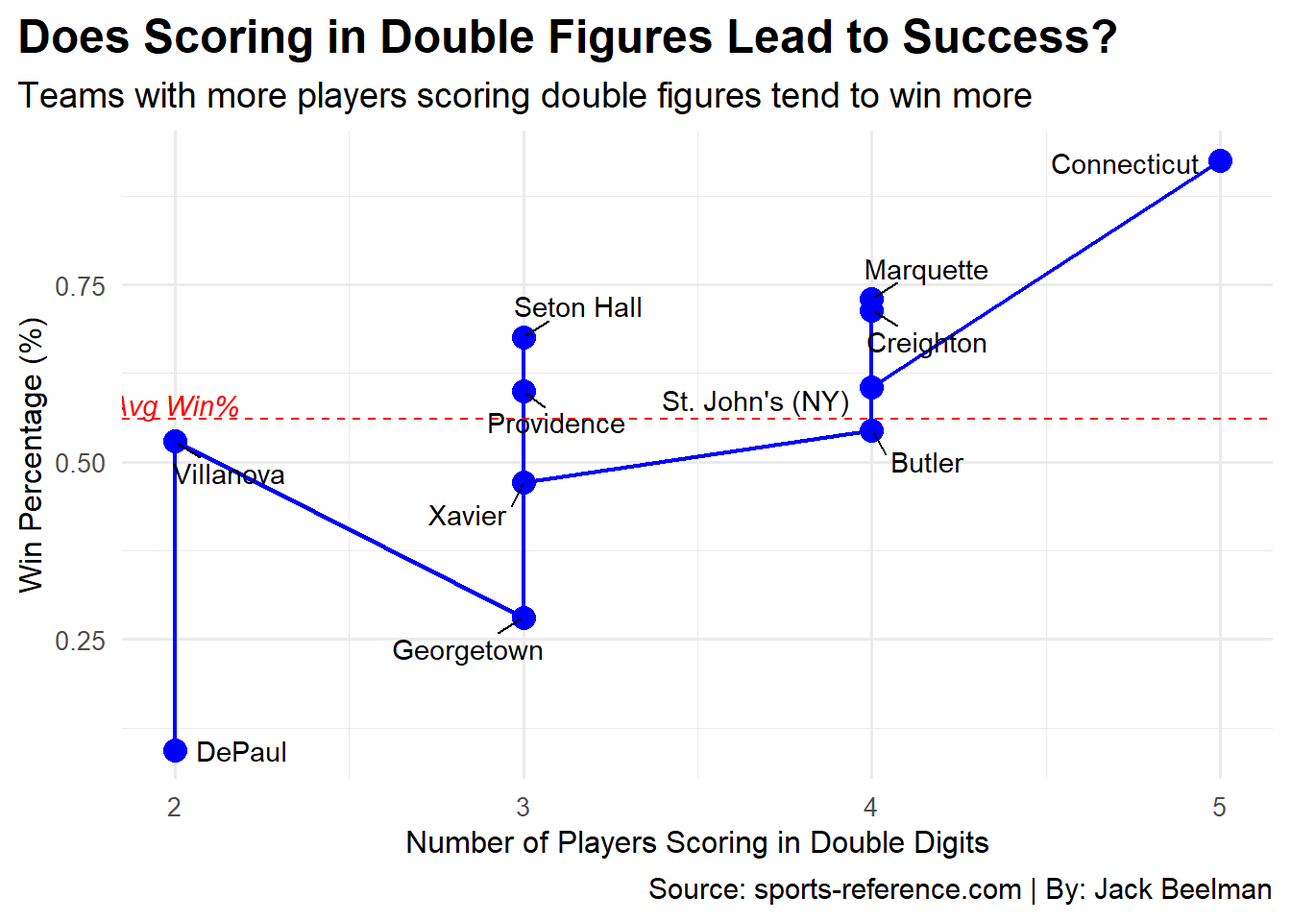
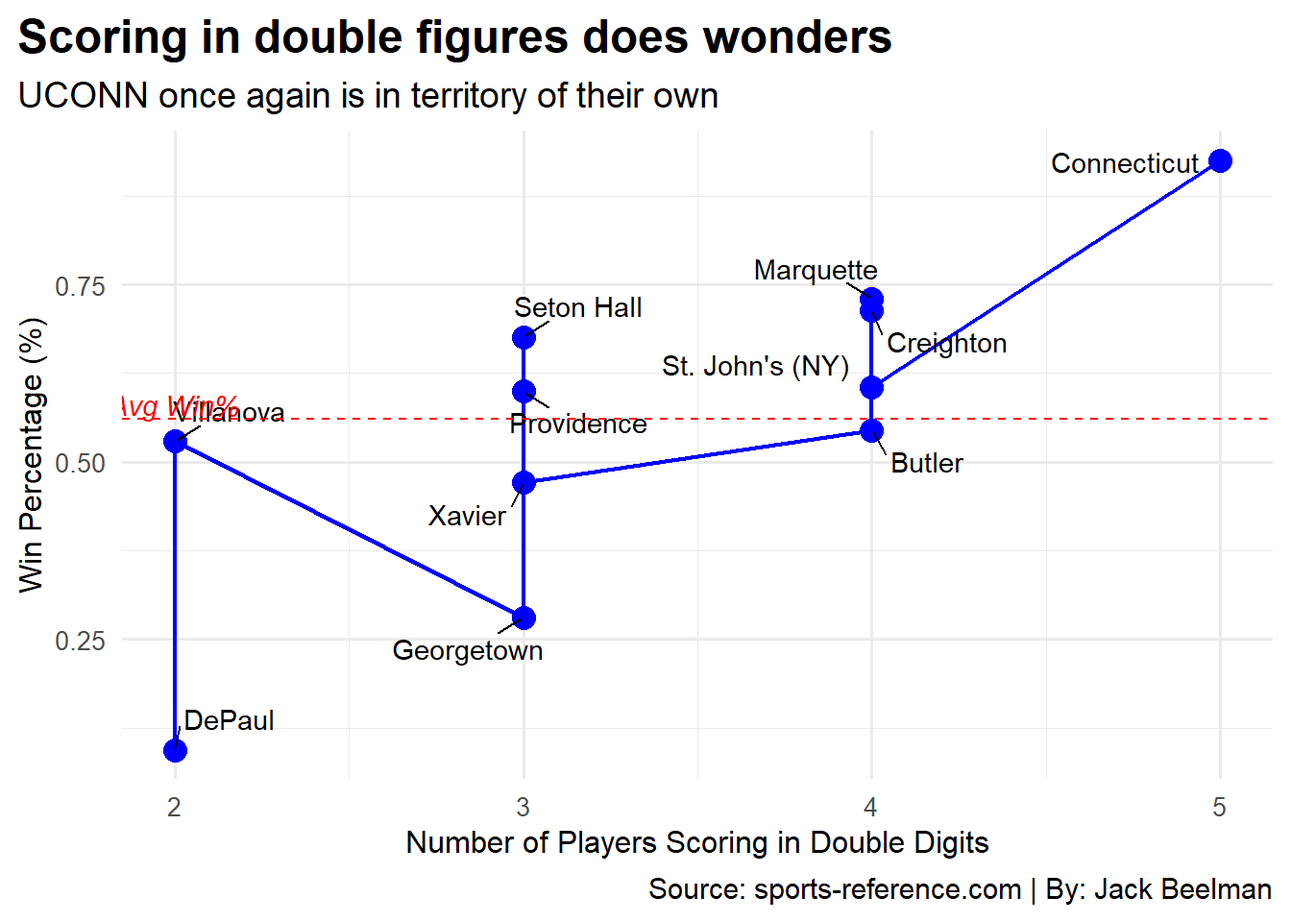
Update

diff --git a/posts/Big-East-Scoring/index.html b/posts/Big-East-Scoring/index.html
@@ -191,47 +191,33 @@ pre > code.sourceCode > span > a:first-child::before { text-decoration: underlin
 
 
 <p>The Big East is widely regarded as one of the most competitive conferences in all of college basketball. With powerhouses like UCONN and Villanova winning the NCAA tournament in 4 of the last 8 years, the conference’s dominance is clear. A common question within the Big East revolves around the impact of scoring balance: do teams with more balanced scoring tend to perform better than those relying on one or two star players?</p>
-<div class="cell">
-<div class="cell-output cell-output-stderr">
-<pre><code>── Attaching core tidyverse packages ──────────────────────── tidyverse 2.0.0 ──
-✔ dplyr     1.1.4     ✔ readr     2.1.5
-✔ forcats   1.0.0     ✔ stringr   1.5.1
-✔ ggplot2   3.5.1     ✔ tibble    3.2.1
-✔ lubridate 1.9.3     ✔ tidyr     1.3.1
-✔ purrr     1.0.2     
-── Conflicts ────────────────────────────────────────── tidyverse_conflicts() ──
-✖ dplyr::filter() masks stats::filter()
-✖ dplyr::lag()    masks stats::lag()
-ℹ Use the conflicted package (&lt;http://conflicted.r-lib.org/&gt;) to force all conflicts to become errors</code></pre>
-</div>
-</div>
 <p>The Big East had multiple players go both in the first and second rounds of the 2024 NBA Draft, but let us see how those players contributed to their team while at the collegiate level. The graph below shows how many players averaged double digit points and for which team they played.</p>
 <div class="cell">
 <details class="code-fold">
 <summary>Code</summary>
-<div class="sourceCode cell-code" id="cb2"><pre class="sourceCode r code-with-copy"><code class="sourceCode r"><span id="cb2-1"><a href="#cb2-1" aria-hidden="true" tabindex="-1"></a><span class="fu">ggplot</span>() <span class="sc">+</span></span>
-<span id="cb2-2"><a href="#cb2-2" aria-hidden="true" tabindex="-1"></a>  <span class="fu">geom_bar</span>(</span>
-<span id="cb2-3"><a href="#cb2-3" aria-hidden="true" tabindex="-1"></a>    <span class="at">data =</span> team_double_digit_count,</span>
-<span id="cb2-4"><a href="#cb2-4" aria-hidden="true" tabindex="-1"></a>    <span class="fu">aes</span>(<span class="at">x =</span> Team, <span class="at">y =</span> Players_in_double_digits),</span>
-<span id="cb2-5"><a href="#cb2-5" aria-hidden="true" tabindex="-1"></a>    <span class="at">stat =</span> <span class="st">"identity"</span>,</span>
-<span id="cb2-6"><a href="#cb2-6" aria-hidden="true" tabindex="-1"></a>    <span class="at">fill =</span> <span class="st">"lightblue"</span></span>
-<span id="cb2-7"><a href="#cb2-7" aria-hidden="true" tabindex="-1"></a>  ) <span class="sc">+</span></span>
-<span id="cb2-8"><a href="#cb2-8" aria-hidden="true" tabindex="-1"></a>  <span class="fu">labs</span>(</span>
-<span id="cb2-9"><a href="#cb2-9" aria-hidden="true" tabindex="-1"></a>    <span class="at">title =</span> <span class="st">"UCONN Dominates Once Again"</span>,</span>
-<span id="cb2-10"><a href="#cb2-10" aria-hidden="true" tabindex="-1"></a>    <span class="at">subtitle =</span> <span class="st">"Dan Hurley's squad is filled with stars"</span>,</span>
-<span id="cb2-11"><a href="#cb2-11" aria-hidden="true" tabindex="-1"></a>    <span class="at">x =</span> <span class="st">"School"</span>,</span>
-<span id="cb2-12"><a href="#cb2-12" aria-hidden="true" tabindex="-1"></a>    <span class="at">y =</span> <span class="st">"Players Averaging Double Digits"</span>,</span>
-<span id="cb2-13"><a href="#cb2-13" aria-hidden="true" tabindex="-1"></a>    <span class="at">caption =</span> <span class="st">"Source: sports-reference.com | By: Jack Beelman"</span></span>
-<span id="cb2-14"><a href="#cb2-14" aria-hidden="true" tabindex="-1"></a>  ) <span class="sc">+</span></span>
-<span id="cb2-15"><a href="#cb2-15" aria-hidden="true" tabindex="-1"></a>  <span class="fu">theme_minimal</span>(<span class="at">base_size =</span> <span class="dv">10</span>) <span class="sc">+</span></span>
-<span id="cb2-16"><a href="#cb2-16" aria-hidden="true" tabindex="-1"></a>  <span class="fu">theme</span>(</span>
-<span id="cb2-17"><a href="#cb2-17" aria-hidden="true" tabindex="-1"></a>    <span class="at">plot.title =</span> <span class="fu">element_text</span>(<span class="at">size =</span> <span class="dv">14</span>, <span class="at">face =</span> <span class="st">"bold"</span>, <span class="at">hjust =</span> <span class="dv">0</span>),</span>
-<span id="cb2-18"><a href="#cb2-18" aria-hidden="true" tabindex="-1"></a>    <span class="at">plot.subtitle =</span> <span class="fu">element_text</span>(<span class="at">size =</span> <span class="dv">10</span>),</span>
-<span id="cb2-19"><a href="#cb2-19" aria-hidden="true" tabindex="-1"></a>    <span class="at">axis.text.x =</span> <span class="fu">element_text</span>(<span class="at">angle =</span> <span class="dv">45</span>, <span class="at">hjust =</span> <span class="dv">1</span>),</span>
-<span id="cb2-20"><a href="#cb2-20" aria-hidden="true" tabindex="-1"></a>    <span class="at">panel.background =</span> <span class="fu">element_rect</span>(<span class="at">fill =</span> <span class="st">"white"</span>, <span class="at">color =</span> <span class="st">"black"</span>),</span>
-<span id="cb2-21"><a href="#cb2-21" aria-hidden="true" tabindex="-1"></a>    <span class="at">plot.background =</span> <span class="fu">element_rect</span>(<span class="at">fill =</span> <span class="st">"lightgray"</span>, <span class="at">color =</span> <span class="st">"black"</span>),</span>
-<span id="cb2-22"><a href="#cb2-22" aria-hidden="true" tabindex="-1"></a>    <span class="at">plot.title.position =</span> <span class="st">"plot"</span></span>
-<span id="cb2-23"><a href="#cb2-23" aria-hidden="true" tabindex="-1"></a>  )</span></code><button title="Copy to Clipboard" class="code-copy-button"><i class="bi"></i></button></pre></div>
+<div class="sourceCode cell-code" id="cb1"><pre class="sourceCode r code-with-copy"><code class="sourceCode r"><span id="cb1-1"><a href="#cb1-1" aria-hidden="true" tabindex="-1"></a><span class="fu">ggplot</span>() <span class="sc">+</span></span>
+<span id="cb1-2"><a href="#cb1-2" aria-hidden="true" tabindex="-1"></a>  <span class="fu">geom_bar</span>(</span>
+<span id="cb1-3"><a href="#cb1-3" aria-hidden="true" tabindex="-1"></a>    <span class="at">data =</span> team_double_digit_count,</span>
+<span id="cb1-4"><a href="#cb1-4" aria-hidden="true" tabindex="-1"></a>    <span class="fu">aes</span>(<span class="at">x =</span> Team, <span class="at">y =</span> Players_in_double_digits),</span>
+<span id="cb1-5"><a href="#cb1-5" aria-hidden="true" tabindex="-1"></a>    <span class="at">stat =</span> <span class="st">"identity"</span>,</span>
+<span id="cb1-6"><a href="#cb1-6" aria-hidden="true" tabindex="-1"></a>    <span class="at">fill =</span> <span class="st">"lightblue"</span></span>
+<span id="cb1-7"><a href="#cb1-7" aria-hidden="true" tabindex="-1"></a>  ) <span class="sc">+</span></span>
+<span id="cb1-8"><a href="#cb1-8" aria-hidden="true" tabindex="-1"></a>  <span class="fu">labs</span>(</span>
+<span id="cb1-9"><a href="#cb1-9" aria-hidden="true" tabindex="-1"></a>    <span class="at">title =</span> <span class="st">"UCONN Dominates Once Again"</span>,</span>
+<span id="cb1-10"><a href="#cb1-10" aria-hidden="true" tabindex="-1"></a>    <span class="at">subtitle =</span> <span class="st">"Dan Hurley's squad is filled with stars"</span>,</span>
+<span id="cb1-11"><a href="#cb1-11" aria-hidden="true" tabindex="-1"></a>    <span class="at">x =</span> <span class="st">"School"</span>,</span>
+<span id="cb1-12"><a href="#cb1-12" aria-hidden="true" tabindex="-1"></a>    <span class="at">y =</span> <span class="st">"Players Averaging Double Digits"</span>,</span>
+<span id="cb1-13"><a href="#cb1-13" aria-hidden="true" tabindex="-1"></a>    <span class="at">caption =</span> <span class="st">"Source: sports-reference.com | By: Jack Beelman"</span></span>
+<span id="cb1-14"><a href="#cb1-14" aria-hidden="true" tabindex="-1"></a>  ) <span class="sc">+</span></span>
+<span id="cb1-15"><a href="#cb1-15" aria-hidden="true" tabindex="-1"></a>  <span class="fu">theme_minimal</span>(<span class="at">base_size =</span> <span class="dv">10</span>) <span class="sc">+</span></span>
+<span id="cb1-16"><a href="#cb1-16" aria-hidden="true" tabindex="-1"></a>  <span class="fu">theme</span>(</span>
+<span id="cb1-17"><a href="#cb1-17" aria-hidden="true" tabindex="-1"></a>    <span class="at">plot.title =</span> <span class="fu">element_text</span>(<span class="at">size =</span> <span class="dv">14</span>, <span class="at">face =</span> <span class="st">"bold"</span>, <span class="at">hjust =</span> <span class="dv">0</span>),</span>
+<span id="cb1-18"><a href="#cb1-18" aria-hidden="true" tabindex="-1"></a>    <span class="at">plot.subtitle =</span> <span class="fu">element_text</span>(<span class="at">size =</span> <span class="dv">10</span>),</span>
+<span id="cb1-19"><a href="#cb1-19" aria-hidden="true" tabindex="-1"></a>    <span class="at">axis.text.x =</span> <span class="fu">element_text</span>(<span class="at">angle =</span> <span class="dv">45</span>, <span class="at">hjust =</span> <span class="dv">1</span>),</span>
+<span id="cb1-20"><a href="#cb1-20" aria-hidden="true" tabindex="-1"></a>    <span class="at">panel.background =</span> <span class="fu">element_rect</span>(<span class="at">fill =</span> <span class="st">"white"</span>, <span class="at">color =</span> <span class="st">"black"</span>),</span>
+<span id="cb1-21"><a href="#cb1-21" aria-hidden="true" tabindex="-1"></a>    <span class="at">plot.background =</span> <span class="fu">element_rect</span>(<span class="at">fill =</span> <span class="st">"lightgray"</span>, <span class="at">color =</span> <span class="st">"black"</span>),</span>
+<span id="cb1-22"><a href="#cb1-22" aria-hidden="true" tabindex="-1"></a>    <span class="at">plot.title.position =</span> <span class="st">"plot"</span></span>
+<span id="cb1-23"><a href="#cb1-23" aria-hidden="true" tabindex="-1"></a>  )</span></code><button title="Copy to Clipboard" class="code-copy-button"><i class="bi"></i></button></pre></div>
 </details>
 <div class="cell-output-display">
 <div>
@@ -246,52 +232,52 @@ pre > code.sourceCode > span > a:first-child::before { text-decoration: underlin
 <div class="cell">
 <details class="code-fold">
 <summary>Code</summary>
-<div class="sourceCode cell-code" id="cb3"><pre class="sourceCode r code-with-copy"><code class="sourceCode r"><span id="cb3-1"><a href="#cb3-1" aria-hidden="true" tabindex="-1"></a><span class="fu">ggplot</span>() <span class="sc">+</span></span>
-<span id="cb3-2"><a href="#cb3-2" aria-hidden="true" tabindex="-1"></a>  <span class="fu">geom_line</span>(</span>
-<span id="cb3-3"><a href="#cb3-3" aria-hidden="true" tabindex="-1"></a>    <span class="at">data =</span> team_performance_clean,</span>
-<span id="cb3-4"><a href="#cb3-4" aria-hidden="true" tabindex="-1"></a>    <span class="fu">aes</span>(<span class="at">x =</span> Players_in_double_digits, <span class="at">y =</span> win_percentage, <span class="at">group =</span> <span class="dv">1</span>),</span>
-<span id="cb3-5"><a href="#cb3-5" aria-hidden="true" tabindex="-1"></a>    <span class="at">color =</span> <span class="st">"blue"</span>,</span>
-<span id="cb3-6"><a href="#cb3-6" aria-hidden="true" tabindex="-1"></a>    <span class="at">linewidth =</span> <span class="fl">0.8</span></span>
-<span id="cb3-7"><a href="#cb3-7" aria-hidden="true" tabindex="-1"></a>  ) <span class="sc">+</span></span>
-<span id="cb3-8"><a href="#cb3-8" aria-hidden="true" tabindex="-1"></a>  <span class="fu">geom_point</span>(</span>
-<span id="cb3-9"><a href="#cb3-9" aria-hidden="true" tabindex="-1"></a>    <span class="at">data =</span> team_performance_clean,</span>
-<span id="cb3-10"><a href="#cb3-10" aria-hidden="true" tabindex="-1"></a>    <span class="fu">aes</span>(<span class="at">x =</span> Players_in_double_digits, <span class="at">y =</span> win_percentage),</span>
-<span id="cb3-11"><a href="#cb3-11" aria-hidden="true" tabindex="-1"></a>    <span class="at">color =</span> <span class="st">"blue"</span>,</span>
-<span id="cb3-12"><a href="#cb3-12" aria-hidden="true" tabindex="-1"></a>    <span class="at">size =</span> <span class="dv">4</span></span>
-<span id="cb3-13"><a href="#cb3-13" aria-hidden="true" tabindex="-1"></a>  ) <span class="sc">+</span></span>
-<span id="cb3-14"><a href="#cb3-14" aria-hidden="true" tabindex="-1"></a>  <span class="fu">geom_text_repel</span>(</span>
-<span id="cb3-15"><a href="#cb3-15" aria-hidden="true" tabindex="-1"></a>    <span class="at">data =</span> team_performance_clean,</span>
-<span id="cb3-16"><a href="#cb3-16" aria-hidden="true" tabindex="-1"></a>    <span class="fu">aes</span>(<span class="at">x =</span> Players_in_double_digits, <span class="at">y =</span> win_percentage, <span class="at">label =</span> Team),</span>
-<span id="cb3-17"><a href="#cb3-17" aria-hidden="true" tabindex="-1"></a>    <span class="at">box.padding =</span> <span class="fl">0.5</span></span>
-<span id="cb3-18"><a href="#cb3-18" aria-hidden="true" tabindex="-1"></a>  ) <span class="sc">+</span></span>
-<span id="cb3-19"><a href="#cb3-19" aria-hidden="true" tabindex="-1"></a>  <span class="fu">geom_hline</span>(</span>
-<span id="cb3-20"><a href="#cb3-20" aria-hidden="true" tabindex="-1"></a>    <span class="at">yintercept =</span> <span class="fu">mean</span>(team_performance_clean<span class="sc">$</span>win_percentage),</span>
-<span id="cb3-21"><a href="#cb3-21" aria-hidden="true" tabindex="-1"></a>    <span class="at">color =</span> <span class="st">"red"</span>,</span>
-<span id="cb3-22"><a href="#cb3-22" aria-hidden="true" tabindex="-1"></a>    <span class="at">linetype =</span> <span class="st">"dashed"</span></span>
-<span id="cb3-23"><a href="#cb3-23" aria-hidden="true" tabindex="-1"></a>  ) <span class="sc">+</span></span>
-<span id="cb3-24"><a href="#cb3-24" aria-hidden="true" tabindex="-1"></a>  <span class="fu">annotate</span>(</span>
-<span id="cb3-25"><a href="#cb3-25" aria-hidden="true" tabindex="-1"></a>    <span class="st">"text"</span>,</span>
-<span id="cb3-26"><a href="#cb3-26" aria-hidden="true" tabindex="-1"></a>    <span class="at">x =</span> <span class="dv">2</span>,</span>
-<span id="cb3-27"><a href="#cb3-27" aria-hidden="true" tabindex="-1"></a>    <span class="at">y =</span> <span class="fu">mean</span>(team_performance_clean<span class="sc">$</span>win_percentage) <span class="sc">+</span> <span class="fl">0.02</span>,</span>
-<span id="cb3-28"><a href="#cb3-28" aria-hidden="true" tabindex="-1"></a>    <span class="at">label =</span> <span class="st">"Avg Win%"</span>,</span>
-<span id="cb3-29"><a href="#cb3-29" aria-hidden="true" tabindex="-1"></a>    <span class="at">color =</span> <span class="st">"red"</span>,</span>
-<span id="cb3-30"><a href="#cb3-30" aria-hidden="true" tabindex="-1"></a>    <span class="at">fontface =</span> <span class="st">"italic"</span></span>
-<span id="cb3-31"><a href="#cb3-31" aria-hidden="true" tabindex="-1"></a>  ) <span class="sc">+</span></span>
-<span id="cb3-32"><a href="#cb3-32" aria-hidden="true" tabindex="-1"></a>  <span class="fu">labs</span>(</span>
-<span id="cb3-33"><a href="#cb3-33" aria-hidden="true" tabindex="-1"></a>    <span class="at">title =</span> <span class="st">"Does Scoring in Double Figures Lead to Success?"</span>,</span>
-<span id="cb3-34"><a href="#cb3-34" aria-hidden="true" tabindex="-1"></a>    <span class="at">subtitle =</span> <span class="st">"Teams with more players scoring double figures tend to win more"</span>,</span>
-<span id="cb3-35"><a href="#cb3-35" aria-hidden="true" tabindex="-1"></a>    <span class="at">x =</span> <span class="st">"Number of Players Scoring in Double Digits"</span>,</span>
-<span id="cb3-36"><a href="#cb3-36" aria-hidden="true" tabindex="-1"></a>    <span class="at">y =</span> <span class="st">"Win Percentage (%)"</span>,</span>
-<span id="cb3-37"><a href="#cb3-37" aria-hidden="true" tabindex="-1"></a>    <span class="at">caption =</span> <span class="st">"Source: sports-reference.com | By: Jack Beelman"</span></span>
-<span id="cb3-38"><a href="#cb3-38" aria-hidden="true" tabindex="-1"></a>  ) <span class="sc">+</span></span>
-<span id="cb3-39"><a href="#cb3-39" aria-hidden="true" tabindex="-1"></a>  <span class="fu">theme_minimal</span>(<span class="at">base_size =</span> <span class="dv">14</span>) <span class="sc">+</span></span>
-<span id="cb3-40"><a href="#cb3-40" aria-hidden="true" tabindex="-1"></a>  <span class="fu">theme</span>(</span>
-<span id="cb3-41"><a href="#cb3-41" aria-hidden="true" tabindex="-1"></a>    <span class="at">plot.title =</span> <span class="fu">element_text</span>(<span class="at">size =</span> <span class="dv">18</span>, <span class="at">face =</span> <span class="st">"bold"</span>, <span class="at">hjust =</span> <span class="dv">0</span>),</span>
-<span id="cb3-42"><a href="#cb3-42" aria-hidden="true" tabindex="-1"></a>    <span class="at">plot.subtitle =</span> <span class="fu">element_text</span>(<span class="at">size =</span> <span class="dv">14</span>),</span>
-<span id="cb3-43"><a href="#cb3-43" aria-hidden="true" tabindex="-1"></a>    <span class="at">axis.title =</span> <span class="fu">element_text</span>(<span class="at">size =</span> <span class="dv">12</span>),</span>
-<span id="cb3-44"><a href="#cb3-44" aria-hidden="true" tabindex="-1"></a>    <span class="at">axis.text =</span> <span class="fu">element_text</span>(<span class="at">size =</span> <span class="dv">10</span>),</span>
-<span id="cb3-45"><a href="#cb3-45" aria-hidden="true" tabindex="-1"></a>    <span class="at">plot.title.position =</span> <span class="st">"plot"</span></span>
-<span id="cb3-46"><a href="#cb3-46" aria-hidden="true" tabindex="-1"></a>  )</span></code><button title="Copy to Clipboard" class="code-copy-button"><i class="bi"></i></button></pre></div>
+<div class="sourceCode cell-code" id="cb2"><pre class="sourceCode r code-with-copy"><code class="sourceCode r"><span id="cb2-1"><a href="#cb2-1" aria-hidden="true" tabindex="-1"></a><span class="fu">ggplot</span>() <span class="sc">+</span></span>
+<span id="cb2-2"><a href="#cb2-2" aria-hidden="true" tabindex="-1"></a>  <span class="fu">geom_line</span>(</span>
+<span id="cb2-3"><a href="#cb2-3" aria-hidden="true" tabindex="-1"></a>    <span class="at">data =</span> team_performance_clean,</span>
+<span id="cb2-4"><a href="#cb2-4" aria-hidden="true" tabindex="-1"></a>    <span class="fu">aes</span>(<span class="at">x =</span> Players_in_double_digits, <span class="at">y =</span> win_percentage, <span class="at">group =</span> <span class="dv">1</span>),</span>
+<span id="cb2-5"><a href="#cb2-5" aria-hidden="true" tabindex="-1"></a>    <span class="at">color =</span> <span class="st">"blue"</span>,</span>
+<span id="cb2-6"><a href="#cb2-6" aria-hidden="true" tabindex="-1"></a>    <span class="at">linewidth =</span> <span class="fl">0.8</span></span>
+<span id="cb2-7"><a href="#cb2-7" aria-hidden="true" tabindex="-1"></a>  ) <span class="sc">+</span></span>
+<span id="cb2-8"><a href="#cb2-8" aria-hidden="true" tabindex="-1"></a>  <span class="fu">geom_point</span>(</span>
+<span id="cb2-9"><a href="#cb2-9" aria-hidden="true" tabindex="-1"></a>    <span class="at">data =</span> team_performance_clean,</span>
+<span id="cb2-10"><a href="#cb2-10" aria-hidden="true" tabindex="-1"></a>    <span class="fu">aes</span>(<span class="at">x =</span> Players_in_double_digits, <span class="at">y =</span> win_percentage),</span>
+<span id="cb2-11"><a href="#cb2-11" aria-hidden="true" tabindex="-1"></a>    <span class="at">color =</span> <span class="st">"blue"</span>,</span>
+<span id="cb2-12"><a href="#cb2-12" aria-hidden="true" tabindex="-1"></a>    <span class="at">size =</span> <span class="dv">4</span></span>
+<span id="cb2-13"><a href="#cb2-13" aria-hidden="true" tabindex="-1"></a>  ) <span class="sc">+</span></span>
+<span id="cb2-14"><a href="#cb2-14" aria-hidden="true" tabindex="-1"></a>  <span class="fu">geom_text_repel</span>(</span>
+<span id="cb2-15"><a href="#cb2-15" aria-hidden="true" tabindex="-1"></a>    <span class="at">data =</span> team_performance_clean,</span>
+<span id="cb2-16"><a href="#cb2-16" aria-hidden="true" tabindex="-1"></a>    <span class="fu">aes</span>(<span class="at">x =</span> Players_in_double_digits, <span class="at">y =</span> win_percentage, <span class="at">label =</span> Team),</span>
+<span id="cb2-17"><a href="#cb2-17" aria-hidden="true" tabindex="-1"></a>    <span class="at">box.padding =</span> <span class="fl">0.5</span></span>
+<span id="cb2-18"><a href="#cb2-18" aria-hidden="true" tabindex="-1"></a>  ) <span class="sc">+</span></span>
+<span id="cb2-19"><a href="#cb2-19" aria-hidden="true" tabindex="-1"></a>  <span class="fu">geom_hline</span>(</span>
+<span id="cb2-20"><a href="#cb2-20" aria-hidden="true" tabindex="-1"></a>    <span class="at">yintercept =</span> <span class="fu">mean</span>(team_performance_clean<span class="sc">$</span>win_percentage),</span>
+<span id="cb2-21"><a href="#cb2-21" aria-hidden="true" tabindex="-1"></a>    <span class="at">color =</span> <span class="st">"red"</span>,</span>
+<span id="cb2-22"><a href="#cb2-22" aria-hidden="true" tabindex="-1"></a>    <span class="at">linetype =</span> <span class="st">"dashed"</span></span>
+<span id="cb2-23"><a href="#cb2-23" aria-hidden="true" tabindex="-1"></a>  ) <span class="sc">+</span></span>
+<span id="cb2-24"><a href="#cb2-24" aria-hidden="true" tabindex="-1"></a>  <span class="fu">annotate</span>(</span>
+<span id="cb2-25"><a href="#cb2-25" aria-hidden="true" tabindex="-1"></a>    <span class="st">"text"</span>,</span>
+<span id="cb2-26"><a href="#cb2-26" aria-hidden="true" tabindex="-1"></a>    <span class="at">x =</span> <span class="dv">2</span>,</span>
+<span id="cb2-27"><a href="#cb2-27" aria-hidden="true" tabindex="-1"></a>    <span class="at">y =</span> <span class="fu">mean</span>(team_performance_clean<span class="sc">$</span>win_percentage) <span class="sc">+</span> <span class="fl">0.02</span>,</span>
+<span id="cb2-28"><a href="#cb2-28" aria-hidden="true" tabindex="-1"></a>    <span class="at">label =</span> <span class="st">"Avg Win%"</span>,</span>
+<span id="cb2-29"><a href="#cb2-29" aria-hidden="true" tabindex="-1"></a>    <span class="at">color =</span> <span class="st">"red"</span>,</span>
+<span id="cb2-30"><a href="#cb2-30" aria-hidden="true" tabindex="-1"></a>    <span class="at">fontface =</span> <span class="st">"italic"</span></span>
+<span id="cb2-31"><a href="#cb2-31" aria-hidden="true" tabindex="-1"></a>  ) <span class="sc">+</span></span>
+<span id="cb2-32"><a href="#cb2-32" aria-hidden="true" tabindex="-1"></a>  <span class="fu">labs</span>(</span>
+<span id="cb2-33"><a href="#cb2-33" aria-hidden="true" tabindex="-1"></a>    <span class="at">title =</span> <span class="st">"Scoring in double figures does wonders"</span>,</span>
+<span id="cb2-34"><a href="#cb2-34" aria-hidden="true" tabindex="-1"></a>    <span class="at">subtitle =</span> <span class="st">"UCONN once again is in territory of their own"</span>,</span>
+<span id="cb2-35"><a href="#cb2-35" aria-hidden="true" tabindex="-1"></a>    <span class="at">x =</span> <span class="st">"Number of Players Scoring in Double Digits"</span>,</span>
+<span id="cb2-36"><a href="#cb2-36" aria-hidden="true" tabindex="-1"></a>    <span class="at">y =</span> <span class="st">"Win Percentage (%)"</span>,</span>
+<span id="cb2-37"><a href="#cb2-37" aria-hidden="true" tabindex="-1"></a>    <span class="at">caption =</span> <span class="st">"Source: sports-reference.com | By: Jack Beelman"</span></span>
+<span id="cb2-38"><a href="#cb2-38" aria-hidden="true" tabindex="-1"></a>  ) <span class="sc">+</span></span>
+<span id="cb2-39"><a href="#cb2-39" aria-hidden="true" tabindex="-1"></a>  <span class="fu">theme_minimal</span>(<span class="at">base_size =</span> <span class="dv">14</span>) <span class="sc">+</span></span>
+<span id="cb2-40"><a href="#cb2-40" aria-hidden="true" tabindex="-1"></a>  <span class="fu">theme</span>(</span>
+<span id="cb2-41"><a href="#cb2-41" aria-hidden="true" tabindex="-1"></a>    <span class="at">plot.title =</span> <span class="fu">element_text</span>(<span class="at">size =</span> <span class="dv">18</span>, <span class="at">face =</span> <span class="st">"bold"</span>, <span class="at">hjust =</span> <span class="dv">0</span>),</span>
+<span id="cb2-42"><a href="#cb2-42" aria-hidden="true" tabindex="-1"></a>    <span class="at">plot.subtitle =</span> <span class="fu">element_text</span>(<span class="at">size =</span> <span class="dv">14</span>),</span>
+<span id="cb2-43"><a href="#cb2-43" aria-hidden="true" tabindex="-1"></a>    <span class="at">axis.title =</span> <span class="fu">element_text</span>(<span class="at">size =</span> <span class="dv">12</span>),</span>
+<span id="cb2-44"><a href="#cb2-44" aria-hidden="true" tabindex="-1"></a>    <span class="at">axis.text =</span> <span class="fu">element_text</span>(<span class="at">size =</span> <span class="dv">10</span>),</span>
+<span id="cb2-45"><a href="#cb2-45" aria-hidden="true" tabindex="-1"></a>    <span class="at">plot.title.position =</span> <span class="st">"plot"</span></span>
+<span id="cb2-46"><a href="#cb2-46" aria-hidden="true" tabindex="-1"></a>  )</span></code><button title="Copy to Clipboard" class="code-copy-button"><i class="bi"></i></button></pre></div>
 </details>
 <div class="cell-output-display">
 <div>
@@ -307,48 +293,42 @@ pre > code.sourceCode > span > a:first-child::before { text-decoration: underlin
 <div class="cell">
 <details class="code-fold">
 <summary>Code</summary>
-<div class="sourceCode cell-code" id="cb4"><pre class="sourceCode r code-with-copy"><code class="sourceCode r"><span id="cb4-1"><a href="#cb4-1" aria-hidden="true" tabindex="-1"></a><span class="fu">ggplot</span>(<span class="at">data =</span> combined_team_stats_clean) <span class="sc">+</span></span>
-<span id="cb4-2"><a href="#cb4-2" aria-hidden="true" tabindex="-1"></a>  <span class="fu">geom_line</span>(</span>
-<span id="cb4-3"><a href="#cb4-3" aria-hidden="true" tabindex="-1"></a>    <span class="fu">aes</span>(<span class="at">x =</span> Team, <span class="at">y =</span> win_percentage, <span class="at">color =</span> Conference, <span class="at">group =</span> <span class="dv">1</span>),</span>
-<span id="cb4-4"><a href="#cb4-4" aria-hidden="true" tabindex="-1"></a>    <span class="at">linewidth =</span> <span class="fl">1.5</span></span>
-<span id="cb4-5"><a href="#cb4-5" aria-hidden="true" tabindex="-1"></a>  ) <span class="sc">+</span></span>
-<span id="cb4-6"><a href="#cb4-6" aria-hidden="true" tabindex="-1"></a>  <span class="fu">geom_point</span>(</span>
-<span id="cb4-7"><a href="#cb4-7" aria-hidden="true" tabindex="-1"></a>    <span class="fu">aes</span>(<span class="at">x =</span> Team, <span class="at">y =</span> win_percentage, <span class="at">color =</span> Conference),</span>
-<span id="cb4-8"><a href="#cb4-8" aria-hidden="true" tabindex="-1"></a>    <span class="at">size =</span> <span class="dv">4</span></span>
-<span id="cb4-9"><a href="#cb4-9" aria-hidden="true" tabindex="-1"></a>  ) <span class="sc">+</span></span>
-<span id="cb4-10"><a href="#cb4-10" aria-hidden="true" tabindex="-1"></a>  <span class="fu">labs</span>(</span>
-<span id="cb4-11"><a href="#cb4-11" aria-hidden="true" tabindex="-1"></a>    <span class="at">title =</span> <span class="st">"Win Percentage Trend: Big East vs Big Ten"</span>,</span>
-<span id="cb4-12"><a href="#cb4-12" aria-hidden="true" tabindex="-1"></a>    <span class="at">subtitle =</span> <span class="st">"A comparison of team performance across two major conferences"</span>,</span>
-<span id="cb4-13"><a href="#cb4-13" aria-hidden="true" tabindex="-1"></a>    <span class="at">x =</span> <span class="st">"Team"</span>,</span>
-<span id="cb4-14"><a href="#cb4-14" aria-hidden="true" tabindex="-1"></a>    <span class="at">y =</span> <span class="st">"Win Percentage (%)"</span>,</span>
-<span id="cb4-15"><a href="#cb4-15" aria-hidden="true" tabindex="-1"></a>    <span class="at">caption =</span> <span class="st">"Source: sports-reference.com | By: Jack Beelman"</span></span>
-<span id="cb4-16"><a href="#cb4-16" aria-hidden="true" tabindex="-1"></a>  ) <span class="sc">+</span></span>
-<span id="cb4-17"><a href="#cb4-17" aria-hidden="true" tabindex="-1"></a>  <span class="fu">theme_minimal</span>(<span class="at">base_size =</span> <span class="dv">14</span>) <span class="sc">+</span></span>
-<span id="cb4-18"><a href="#cb4-18" aria-hidden="true" tabindex="-1"></a>  <span class="fu">theme</span>(</span>
-<span id="cb4-19"><a href="#cb4-19" aria-hidden="true" tabindex="-1"></a>    <span class="at">plot.title =</span> <span class="fu">element_text</span>(<span class="at">size =</span> <span class="dv">18</span>, <span class="at">face =</span> <span class="st">"bold"</span>, <span class="at">hjust =</span> <span class="dv">0</span>),</span>
-<span id="cb4-20"><a href="#cb4-20" aria-hidden="true" tabindex="-1"></a>    <span class="at">plot.subtitle =</span> <span class="fu">element_text</span>(<span class="at">size =</span> <span class="dv">14</span>),</span>
-<span id="cb4-21"><a href="#cb4-21" aria-hidden="true" tabindex="-1"></a>    <span class="at">axis.text.x =</span> <span class="fu">element_text</span>(<span class="at">angle =</span> <span class="dv">45</span>, <span class="at">hjust =</span> <span class="dv">1</span>),</span>
-<span id="cb4-22"><a href="#cb4-22" aria-hidden="true" tabindex="-1"></a>    <span class="at">plot.title.position =</span> <span class="st">"plot"</span></span>
-<span id="cb4-23"><a href="#cb4-23" aria-hidden="true" tabindex="-1"></a>  )</span></code><button title="Copy to Clipboard" class="code-copy-button"><i class="bi"></i></button></pre></div>
+<div class="sourceCode cell-code" id="cb3"><pre class="sourceCode r code-with-copy"><code class="sourceCode r"><span id="cb3-1"><a href="#cb3-1" aria-hidden="true" tabindex="-1"></a>  <span class="fu">ggplot</span>() <span class="sc">+</span></span>
+<span id="cb3-2"><a href="#cb3-2" aria-hidden="true" tabindex="-1"></a>    <span class="fu">geom_line</span>(</span>
+<span id="cb3-3"><a href="#cb3-3" aria-hidden="true" tabindex="-1"></a>      <span class="at">data =</span> combined_team_stats,</span>
+<span id="cb3-4"><a href="#cb3-4" aria-hidden="true" tabindex="-1"></a>      <span class="fu">aes</span>(<span class="at">x =</span> Team, <span class="at">y =</span> win_percentage, <span class="at">color =</span> Conference, <span class="at">group =</span> <span class="dv">1</span>),</span>
+<span id="cb3-5"><a href="#cb3-5" aria-hidden="true" tabindex="-1"></a>      <span class="at">linewidth =</span> <span class="fl">1.5</span></span>
+<span id="cb3-6"><a href="#cb3-6" aria-hidden="true" tabindex="-1"></a>    ) <span class="sc">+</span></span>
+<span id="cb3-7"><a href="#cb3-7" aria-hidden="true" tabindex="-1"></a>    <span class="fu">geom_point</span>(</span>
+<span id="cb3-8"><a href="#cb3-8" aria-hidden="true" tabindex="-1"></a>      <span class="at">data =</span> combined_team_stats,</span>
+<span id="cb3-9"><a href="#cb3-9" aria-hidden="true" tabindex="-1"></a>      <span class="fu">aes</span>(<span class="at">x =</span> Team, <span class="at">y =</span> win_percentage, <span class="at">color =</span> Conference),</span>
+<span id="cb3-10"><a href="#cb3-10" aria-hidden="true" tabindex="-1"></a>      <span class="at">size =</span> <span class="dv">4</span></span>
+<span id="cb3-11"><a href="#cb3-11" aria-hidden="true" tabindex="-1"></a>    ) <span class="sc">+</span></span>
+<span id="cb3-12"><a href="#cb3-12" aria-hidden="true" tabindex="-1"></a>    <span class="fu">labs</span>(</span>
+<span id="cb3-13"><a href="#cb3-13" aria-hidden="true" tabindex="-1"></a>      <span class="at">title =</span> <span class="st">"UCONN and Purdue dominated the rest of the field"</span>, </span>
+<span id="cb3-14"><a href="#cb3-14" aria-hidden="true" tabindex="-1"></a>      <span class="at">subtitle =</span> <span class="st">"The Huskies and Boilermakers were meant to meet in the final"</span>,</span>
+<span id="cb3-15"><a href="#cb3-15" aria-hidden="true" tabindex="-1"></a>      <span class="at">x =</span> <span class="st">"Team"</span>,</span>
+<span id="cb3-16"><a href="#cb3-16" aria-hidden="true" tabindex="-1"></a>      <span class="at">y =</span> <span class="st">"Win Percentage (%)"</span>,</span>
+<span id="cb3-17"><a href="#cb3-17" aria-hidden="true" tabindex="-1"></a>      <span class="at">caption =</span> <span class="st">"Source: sports-reference.com | By: Jack Beelman"</span></span>
+<span id="cb3-18"><a href="#cb3-18" aria-hidden="true" tabindex="-1"></a>    ) <span class="sc">+</span></span>
+<span id="cb3-19"><a href="#cb3-19" aria-hidden="true" tabindex="-1"></a>    <span class="fu">theme_minimal</span>(<span class="at">base_size =</span> <span class="dv">14</span>) <span class="sc">+</span></span>
+<span id="cb3-20"><a href="#cb3-20" aria-hidden="true" tabindex="-1"></a>    <span class="fu">theme</span>(</span>
+<span id="cb3-21"><a href="#cb3-21" aria-hidden="true" tabindex="-1"></a>      <span class="at">plot.title =</span> <span class="fu">element_text</span>(<span class="at">size =</span> <span class="dv">18</span>, <span class="at">face =</span> <span class="st">"bold"</span>, <span class="at">hjust =</span> <span class="dv">0</span>),</span>
+<span id="cb3-22"><a href="#cb3-22" aria-hidden="true" tabindex="-1"></a>      <span class="at">plot.subtitle =</span> <span class="fu">element_text</span>(<span class="at">size =</span> <span class="dv">14</span>),</span>
+<span id="cb3-23"><a href="#cb3-23" aria-hidden="true" tabindex="-1"></a>      <span class="at">axis.text.x =</span> <span class="fu">element_text</span>(<span class="at">angle =</span> <span class="dv">45</span>, <span class="at">hjust =</span> <span class="dv">1</span>),</span>
+<span id="cb3-24"><a href="#cb3-24" aria-hidden="true" tabindex="-1"></a>      <span class="at">plot.title.position =</span> <span class="st">"plot"</span></span>
+<span id="cb3-25"><a href="#cb3-25" aria-hidden="true" tabindex="-1"></a>    )</span></code><button title="Copy to Clipboard" class="code-copy-button"><i class="bi"></i></button></pre></div>
 </details>
-<div class="cell-output cell-output-stderr">
-<pre><code>Warning: Removed 2 rows containing missing values or values outside the scale range
-(`geom_line()`).</code></pre>
-</div>
-<div class="cell-output cell-output-stderr">
-<pre><code>Warning: Removed 2 rows containing missing values or values outside the scale range
-(`geom_point()`).</code></pre>
-</div>
 <div class="cell-output-display">
 <div>
 <figure class="figure">
-<p><img src="index_files/figure-html/unnamed-chunk-17-1.png" class="img-fluid figure-img" width="672"></p>
+<p><img src="index_files/figure-html/unnamed-chunk-18-1.png" class="img-fluid figure-img" width="672"></p>
 </figure>
 </div>
 </div>
 </div>
 <p>When comparing the Big East to the Big Ten, another powerhouse conference that produced the National Championship runner-up, Purdue, the trends become more pronounced. The Big Ten had three more teams make the NCAA Tournament and exhibited a higher overall win percentage, highlighting the depth and consistency of the conference.</p>
-<p>In conclusion, while a high number of double-digit scorers can correlate with success, it is clear that a variety of factors—including defense, depth, and overall team chemistry—are essential for long-term success in college basketball. The Big East and Big Ten both highlight how competitive conferences can thrive with diverse strategies and player contributions.</p>
+<p>In conclusion, while a high number of double-digit scorers can correlate with success, it is clear that a variety of factors, including defense, depth, and overall team chemistry are needed for success in the long run in college basketball. The Big East and Big Ten both highlight how competitive conferences can thrive with diverse strategies and player contributions.</p>
 
 
 

diff --git a/index.html b/index.html
@@ -205,7 +205,7 @@ window.Quarto = {
 
 <div class="quarto-listing quarto-listing-container-default" id="listing-listing">
 <div class="list quarto-listing-default">
-<div class="quarto-post image-right" data-index="0" data-categories="TkNBQSxCYXNrZXRiYWxsLEJpZyBFYXN0" data-listing-date-sort="1731823200000" data-listing-file-modified-sort="1731716956928" data-listing-date-modified-sort="NaN" data-listing-reading-time-sort="7" data-listing-word-count-sort="1225">
+<div class="quarto-post image-right" data-index="0" data-categories="TkNBQSxCYXNrZXRiYWxsLEJpZyBFYXN0" data-listing-date-sort="1731823200000" data-listing-file-modified-sort="1731889968194" data-listing-date-modified-sort="NaN" data-listing-reading-time-sort="7" data-listing-word-count-sort="1307">
 <div class="thumbnail">
 <p><a href="./posts/Big-East-Scoring/index.html" class="no-external"></a></p><a href="./posts/Big-East-Scoring/index.html" class="no-external">
 <p class="card-img-top"><img src="posts\Big-East-Scoring\index_files\figure-html\vis-team-double-digit-scorers-1.png"  class="thumbnail-image card-img"/></p>
